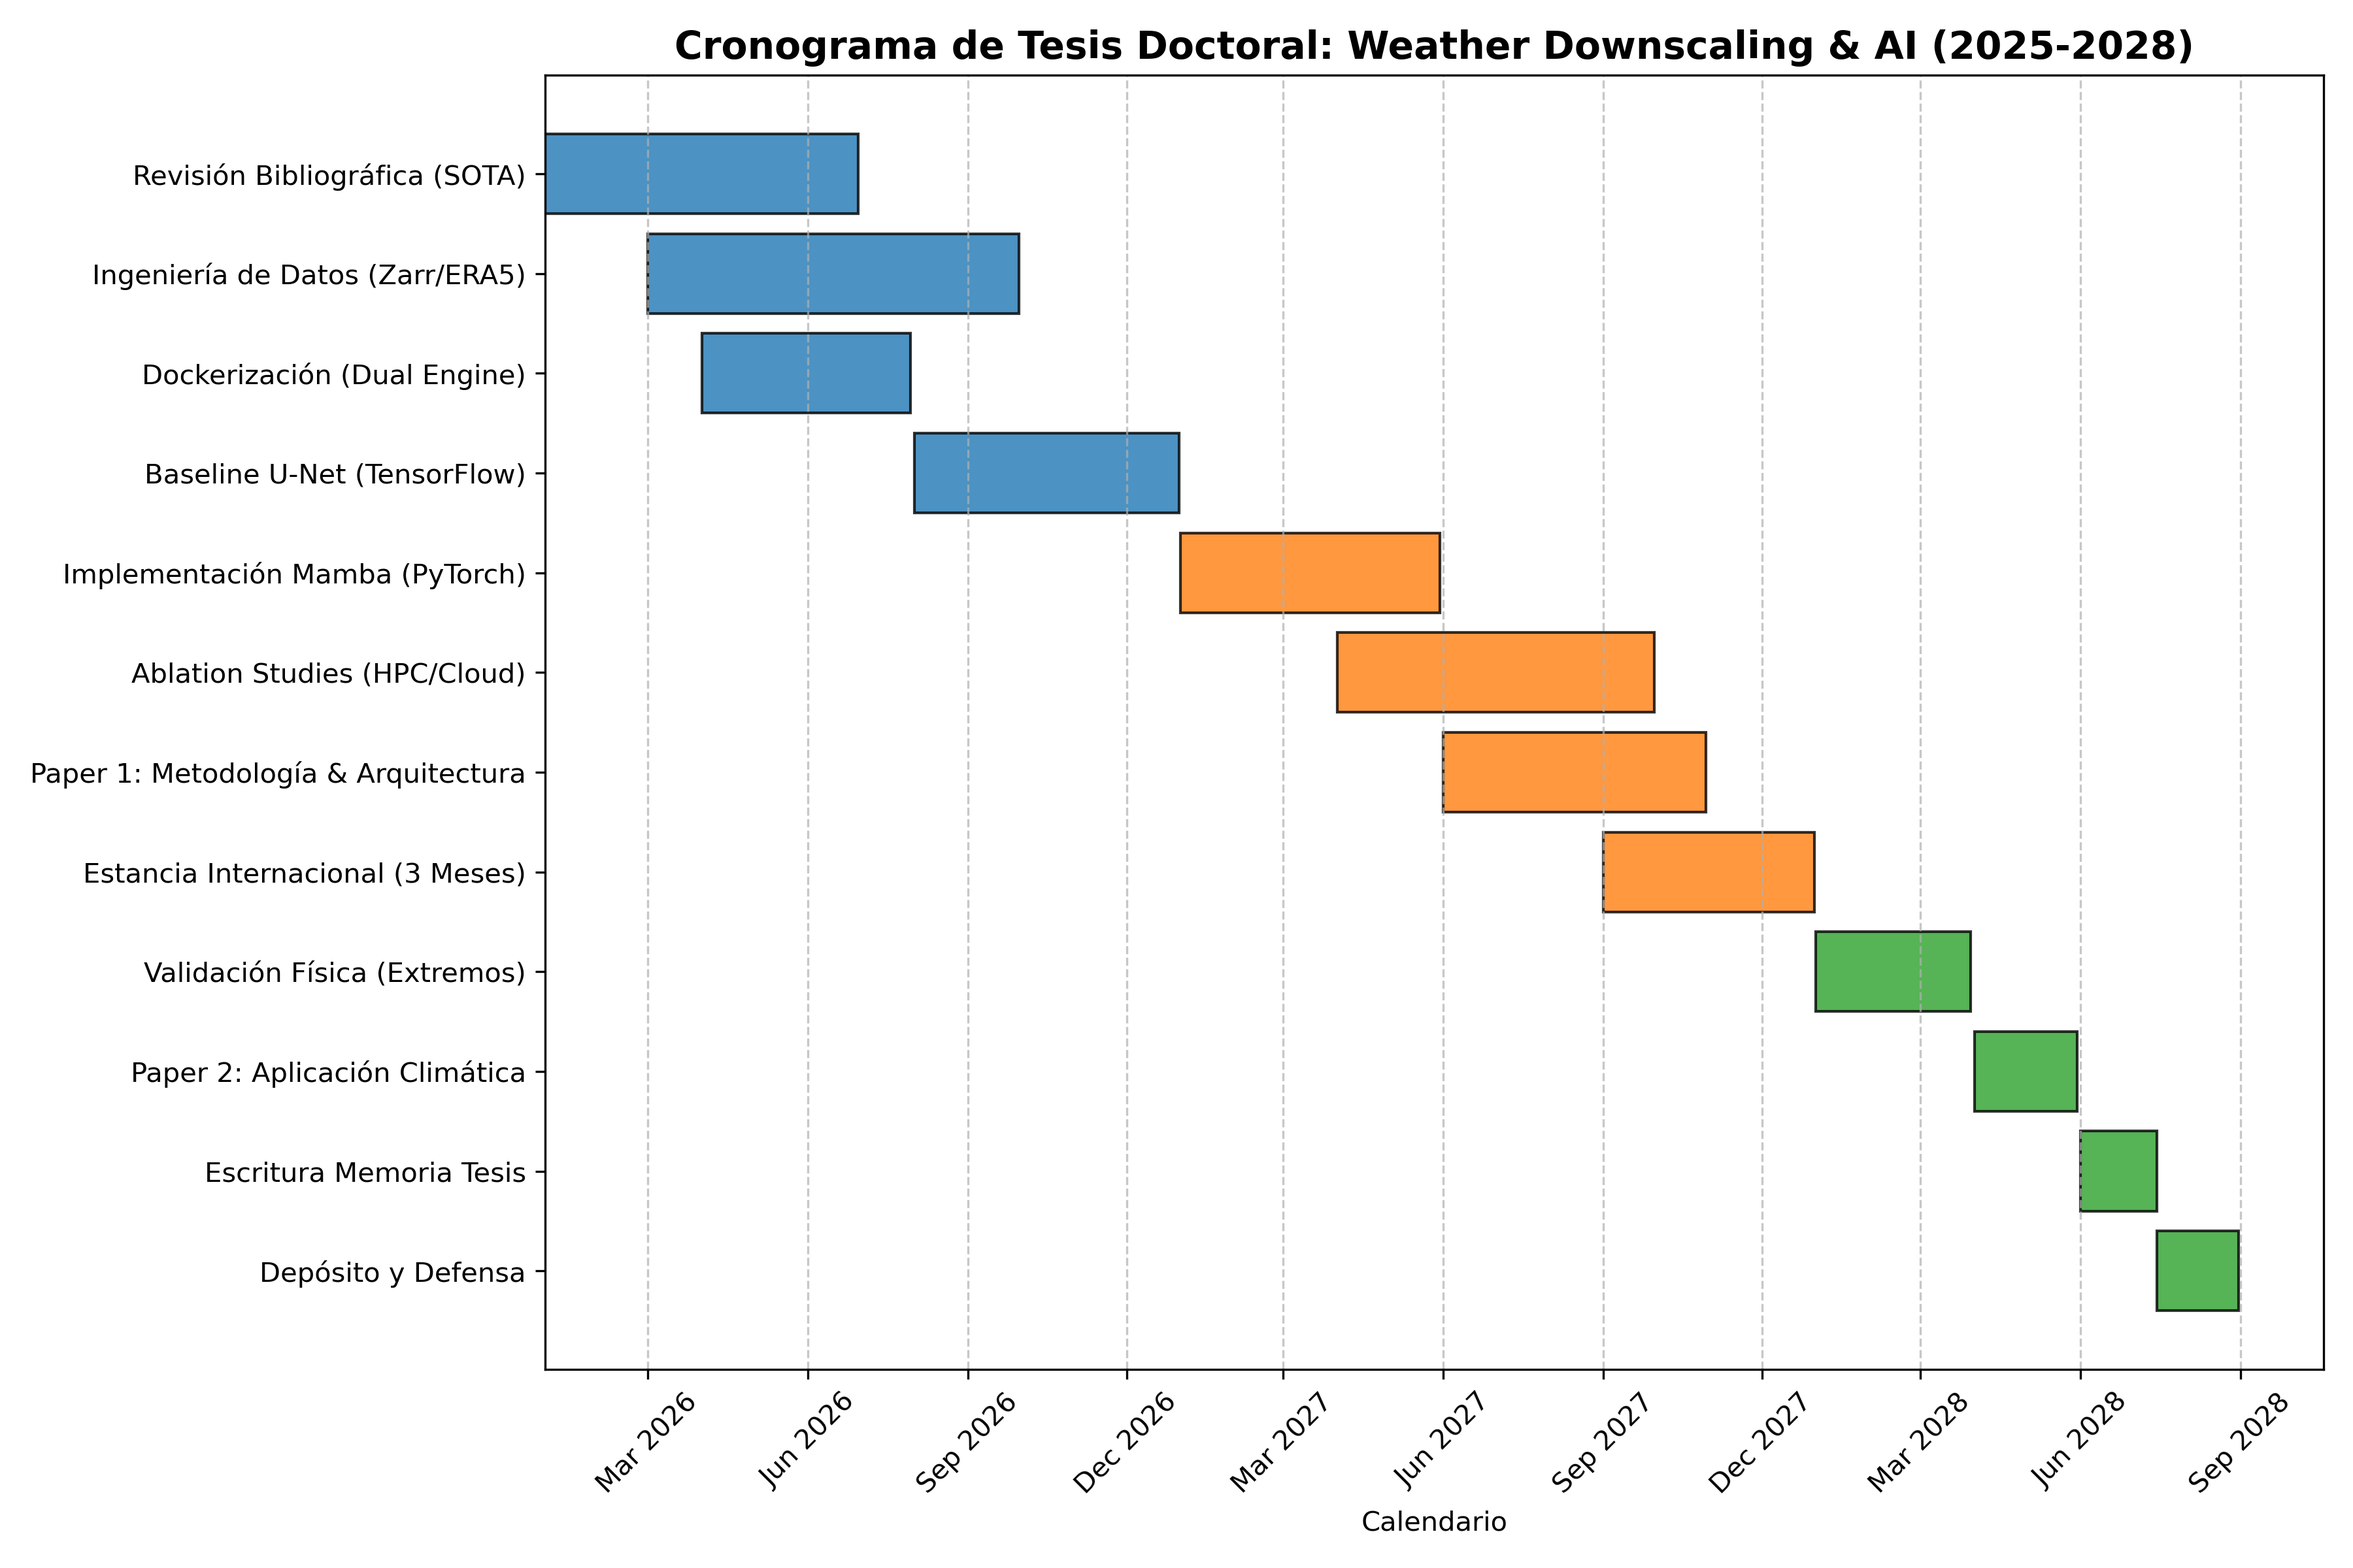
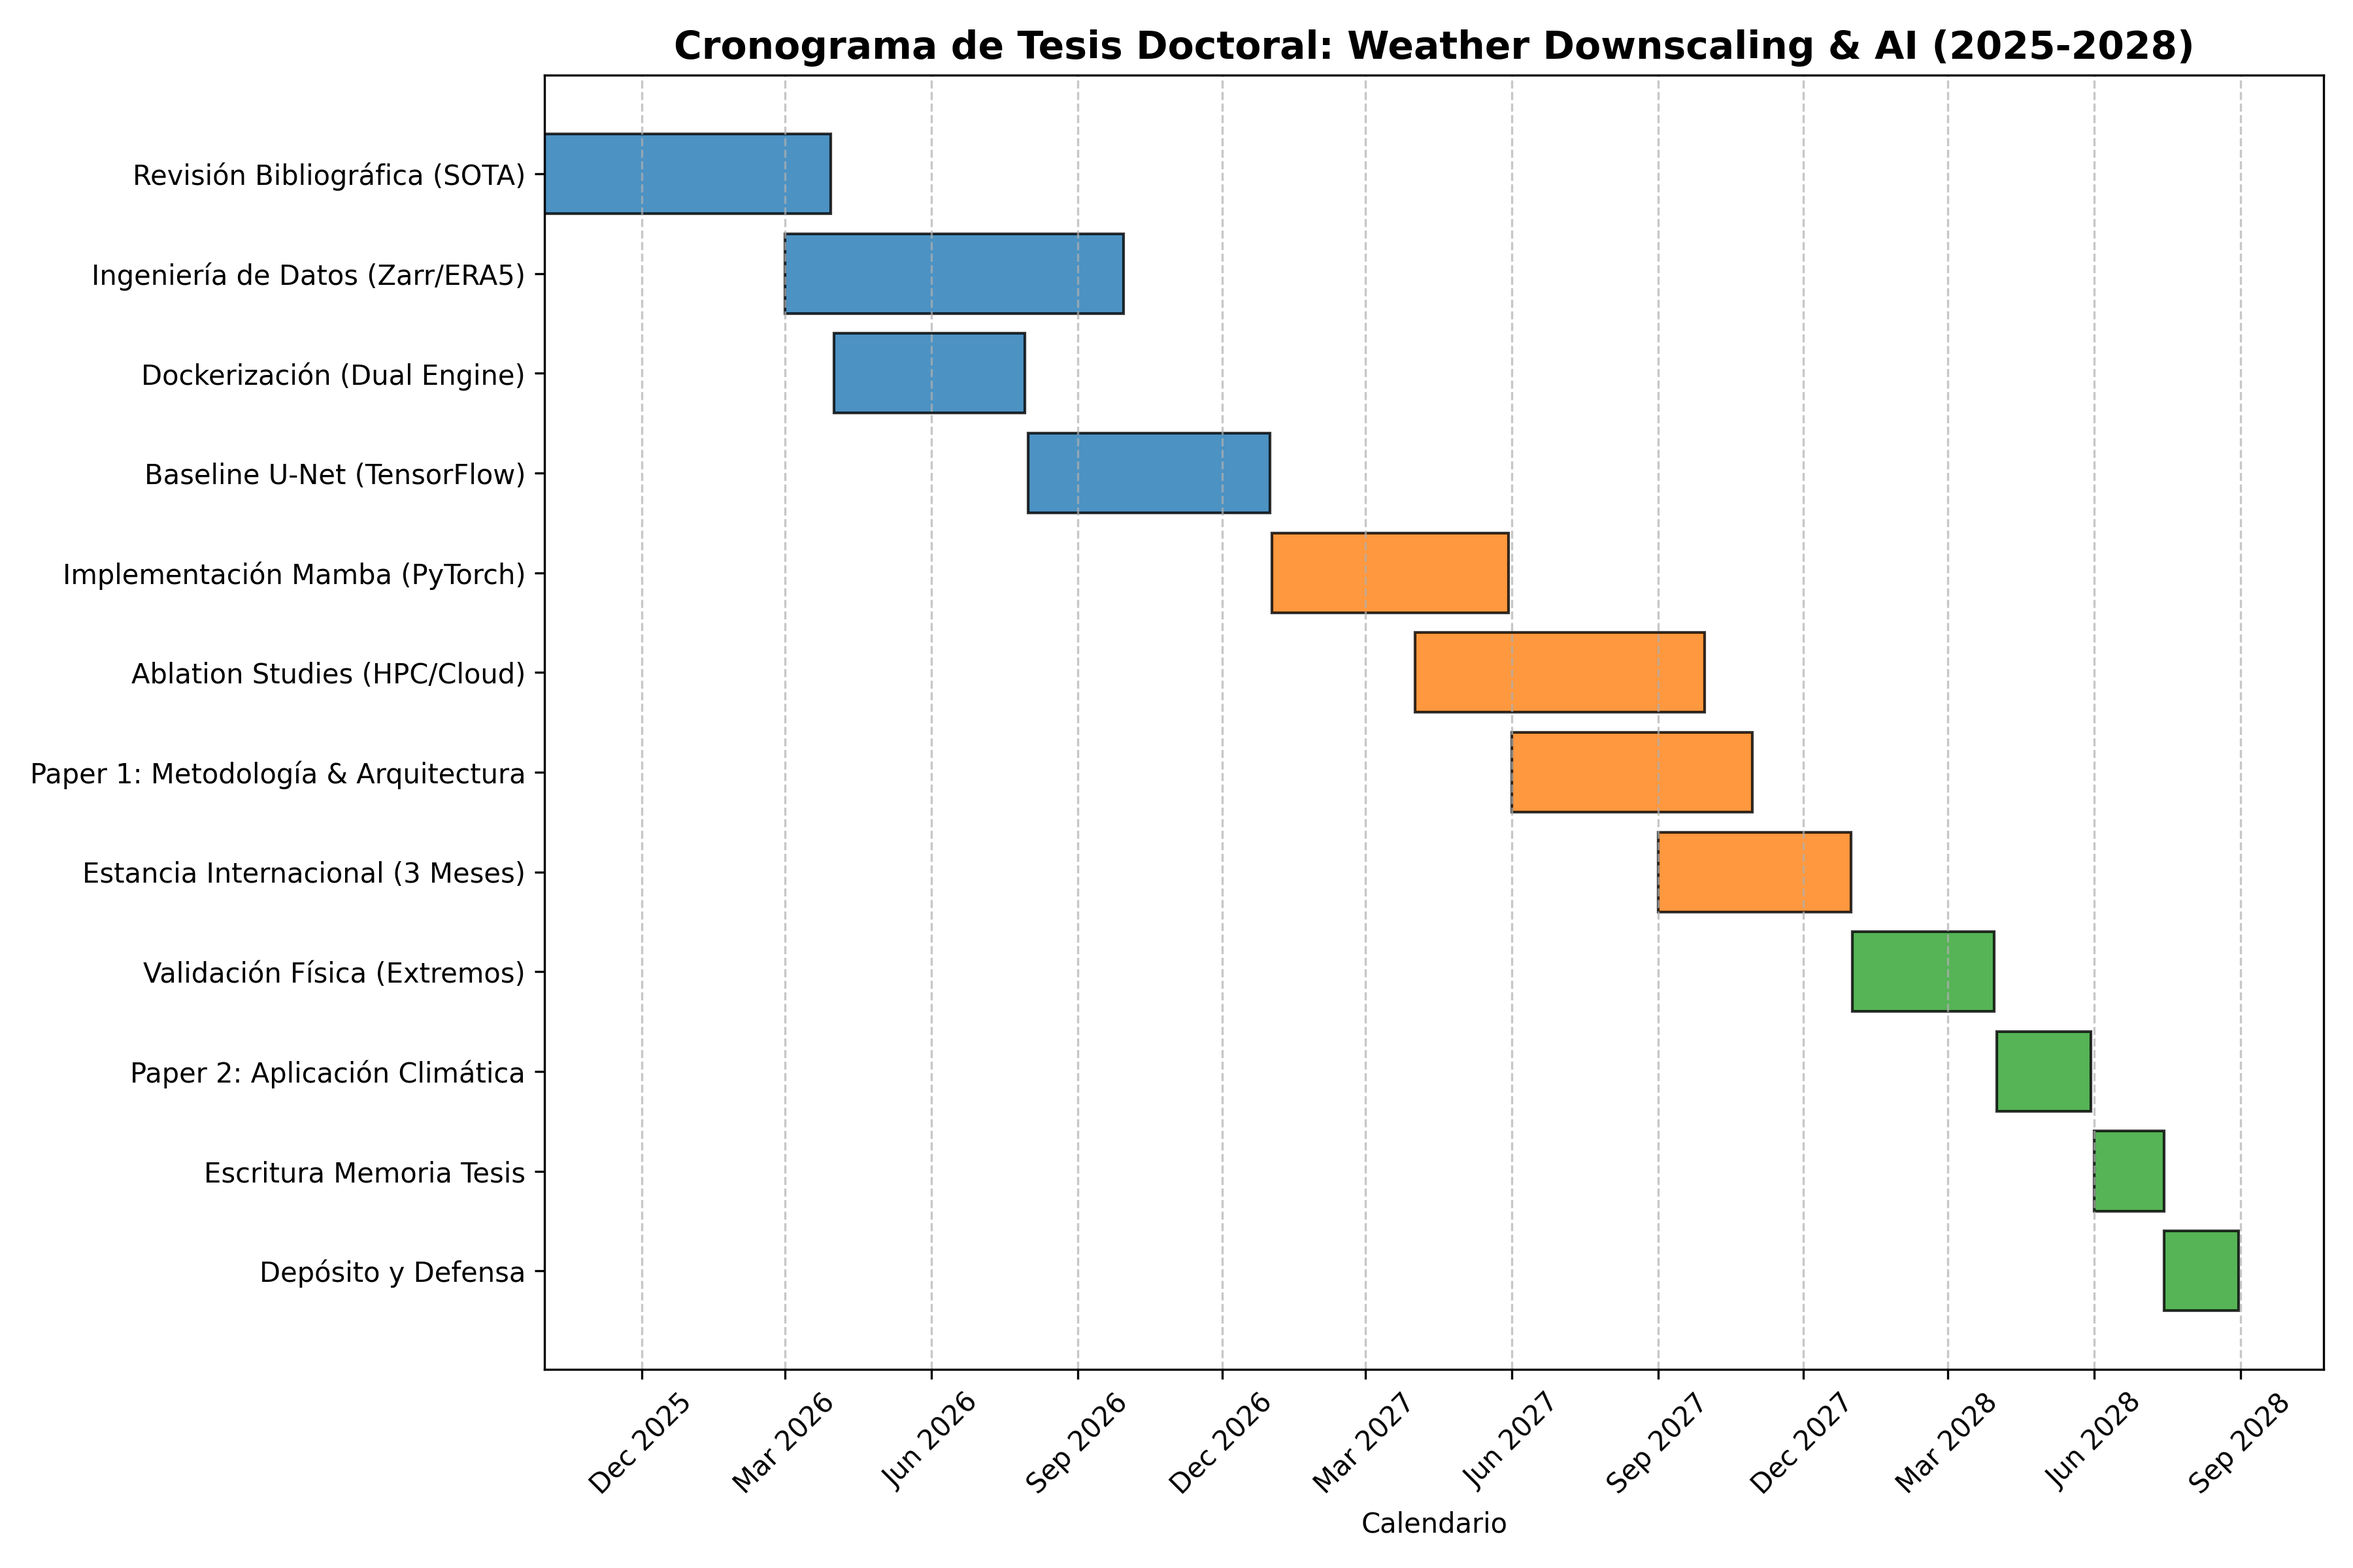
feat: Add GPU setup script, enable Docker GPU support, and refine GPU memory configuration.

diff --git a/config/gpu_server_config.py b/config/gpu_server_config.py
@@ -187,12 +187,13 @@ class GPUServerConfig:
             if gpus:
                 for gpu in gpus:
                     tf.config.experimental.set_memory_growth(gpu, True)
-                    tf.config.experimental.set_virtual_device_configuration(
-                        gpu,
-                        [tf.config.experimental.VirtualDeviceConfiguration(
-                            memory_limit=int(cls.GPU_MEMORY_FRACTION * cls.GPU_MEMORY_GB * 1024)
-                        )]
-                    )
+                        if cls.GPU_MEMORY_GB is not None:
+                            tf.config.experimental.set_virtual_device_configuration(
+                                gpu,
+                                [tf.config.experimental.VirtualDeviceConfiguration(
+                                    memory_limit=int(cls.GPU_MEMORY_FRACTION * cls.GPU_MEMORY_GB * 1024)
+                                )]
+                            )
                 print(f"✅ GPU memory configurada para {cls.GPU_MEMORY_FRACTION * 100}% de {cls.GPU_MEMORY_GB}GB")
         except Exception as e:
             print(f"⚠ Error configurando GPU memory: {e}")

diff --git a/generar_cronograma.py b/generar_cronograma.py
@@ -6,7 +6,7 @@ import pandas as pd
 # --- DATOS DEL CRONOGRAMA ---
 tasks = [
     # AÑO 1: INGENIERÍA
-    dict(Task="Revisión Bibliográfica (SOTA)", Start='2026-01-01', Finish='2026-06-30', Phase='Año 1: Fundamentos'),
+    dict(Task="Revisión Bibliográfica (SOTA)", Start='2025-10-01', Finish='2026-03-30', Phase='Año 1: Fundamentos'),
     dict(Task="Ingeniería de Datos (Zarr/ERA5)", Start='2026-03-01', Finish='2026-09-30', Phase='Año 1: Fundamentos'),
     dict(Task="Dockerización (Dual Engine)", Start='2026-04-01', Finish='2026-07-30', Phase='Año 1: Fundamentos'),
     dict(Task="Baseline U-Net (TensorFlow)", Start='2026-08-01', Finish='2026-12-31', Phase='Año 1: Fundamentos'),

diff --git a/scripts/run_ablation.py b/scripts/run_ablation.py
@@ -19,7 +19,7 @@ sys.path.append(PROJECT_ROOT)
 from src.models_legacy import ModelZoo # <--- Usamos Legacy Models (ReLU, No-BN)
 from src.data_loader import BigDataPipeline # <--- Usamos el Data Loader completo
 from src.utils import run_experiment, visualize_results, notify_completion, plot_comparative_history
-from config.config import Config
+from config.gpu_server_config import GPUServerConfig as Config
 
 # --- CONFIGURACIÓN DE EXPERIMENTOS ---
 # Mapeo de nombres a métodos de construcción en ModelZoo
